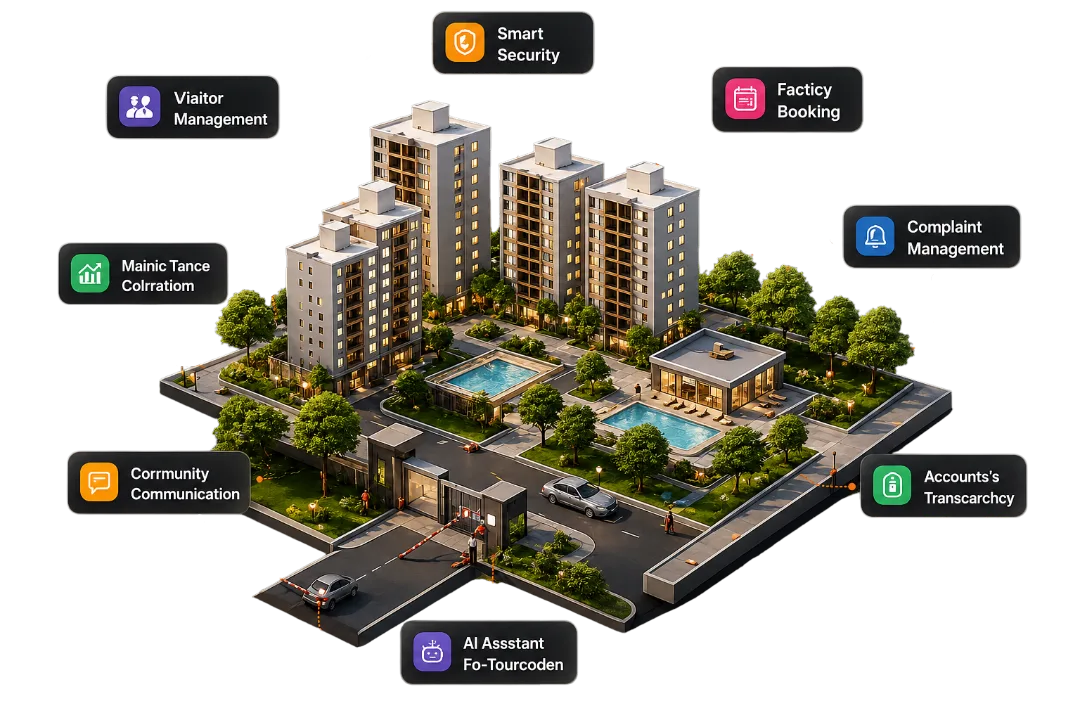
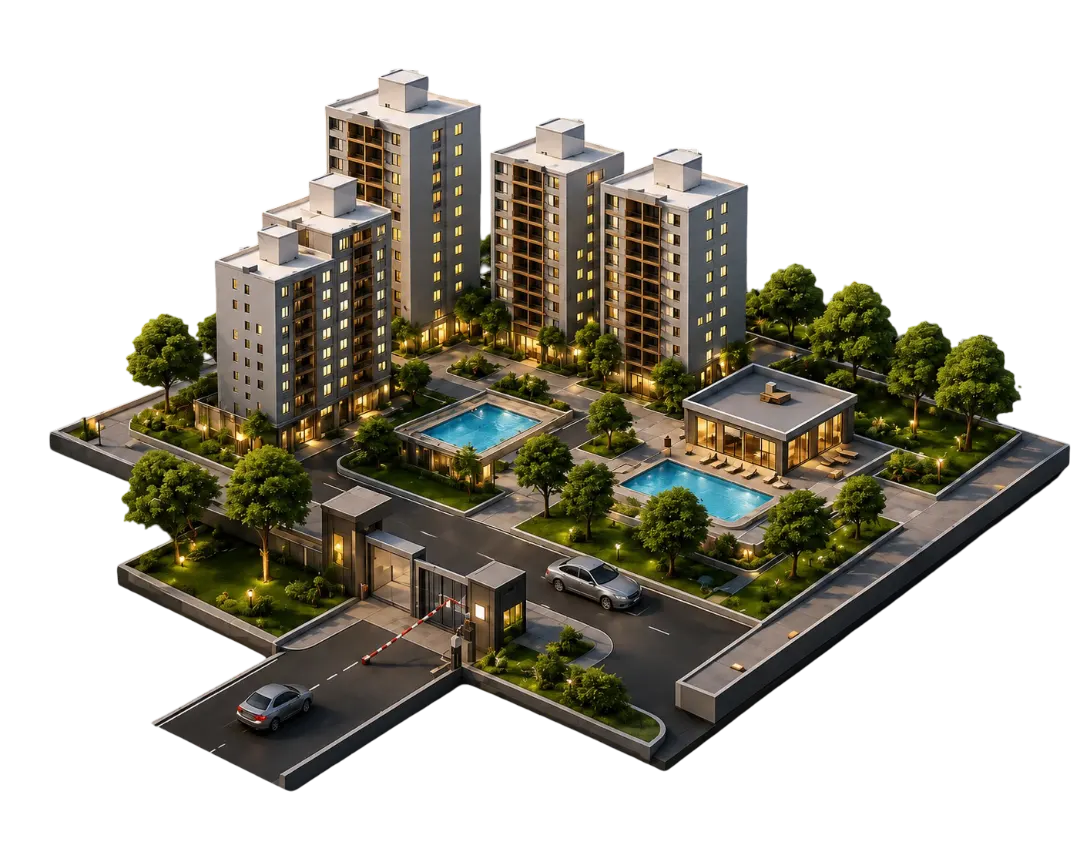
updated images and resolved UI bugs

diff --git a/src/components/Timeline/Timeline.jsx b/src/components/Timeline/Timeline.jsx
@@ -40,6 +40,7 @@ const Timeline = () => {
               {/* Steps */}
               {TIMELINE_STEPS.map((step, index) => {
                 const IconComponent = FaIcons[step.iconName] || FaIcons.FaUser;
+                const isGreenHover = step.iconName === 'FaCheckCircle';
 
                 return (
                   <motion.div
@@ -51,7 +52,15 @@ const Timeline = () => {
                     className="flex flex-row sm:flex-col items-center sm:text-center relative z-10 group mb-6 sm:mb-0 flex-1 px-2"
                   >
                     {/* Circle Icon Wrapper */}
-                    <div className="w-12 h-12 sm:w-14 sm:h-14 rounded-full bg-white border-2 border-orange-100 shadow-sm flex items-center justify-center text-gray-400 text-lg sm:mb-4 relative group-hover:border-[#FF6B00] group-hover:text-[#FF6B00] transition-colors shrink-0">
+                    {/* <div className="w-12 h-12 sm:w-14 sm:h-14 rounded-full bg-white border-2 border-orange-100 shadow-sm flex items-center justify-center text-gray-400 text-lg sm:mb-4 relative group-hover:border-[#FF6B00] group-hover:text-[#FF6B00] transition-colors shrink-0">
+                      <IconComponent />
+                    </div> */}
+                    <div
+                      className={`w-12 h-12 sm:w-14 sm:h-14 rounded-full bg-white border-2 border-orange-100 shadow-sm flex items-center justify-center text-gray-400 text-lg sm:mb-4 relative transition-colors shrink-0 ${isGreenHover
+                        ? 'group-hover:border-green-500 group-hover:text-green-500'
+                        : 'group-hover:border-[#FF6B00] group-hover:text-[#FF6B00]'
+                        }`}
+                    >
                       <IconComponent />
                     </div>
 

diff --git a/src/components/Hero/Hero.jsx b/src/components/Hero/Hero.jsx
@@ -21,7 +21,7 @@ const SLIDES = [
     image: banner1,
     layout: 'split',
     // ── Customize Hero1.png (bannerIsoImg) independently ──
-    imageClassName: "absolute inset-0 w-full h-full object-cover object-top sm:object-center sm:w-200 sm:ml-170",
+    imageClassName: "absolute inset-0 w-full h-full object-cover object-top sm:object-center sm:w-200 sm:ml-150",
     imageStyle: { objectPosition: 'center center' },
   },
   {
@@ -103,7 +103,7 @@ const Hero = () => {
             className="space-y-5 max-w-full sm:max-w-[75%] lg:max-w-[55%]"
           >
             {/* Badge */}
-            <div className="inline-flex items-center gap-2 px-3.5 py-1.5 rounded-full bg-orange-500/15 border border-orange-500/30 text-[#FF6B00] text-base font-bold uppercase tracking-wider backdrop-blur-sm">
+            <div className="inline-flex items-center gap-2 px-3.5 py-1.5 rounded-full bg-orange-500/15 border border-orange-500/30 text-[#FF6B00] text-sm font-bold uppercase tracking-wider backdrop-blur-sm">
               {slide.badge}
             </div>
 
